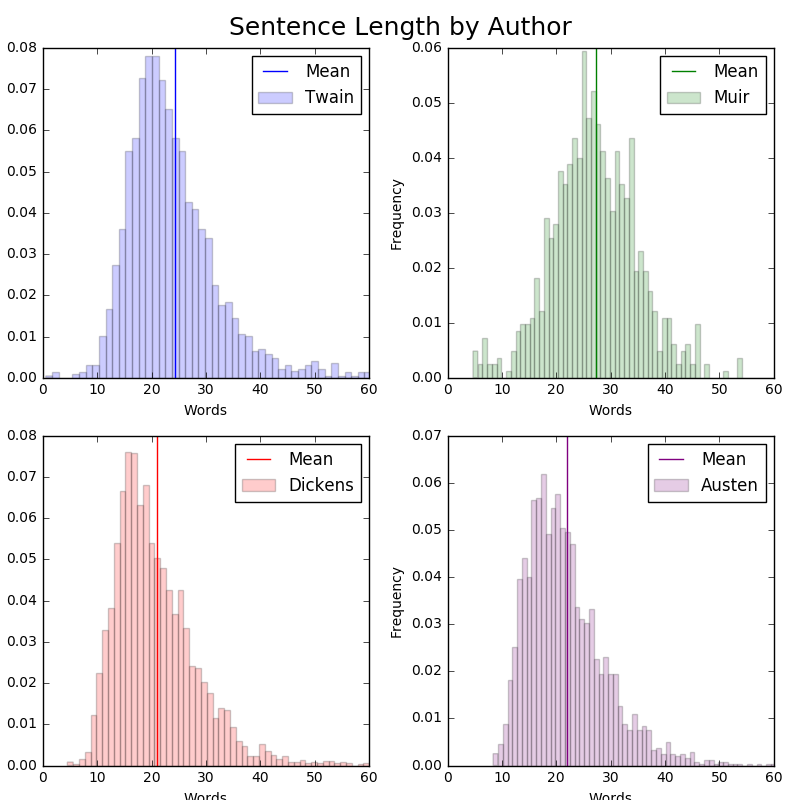
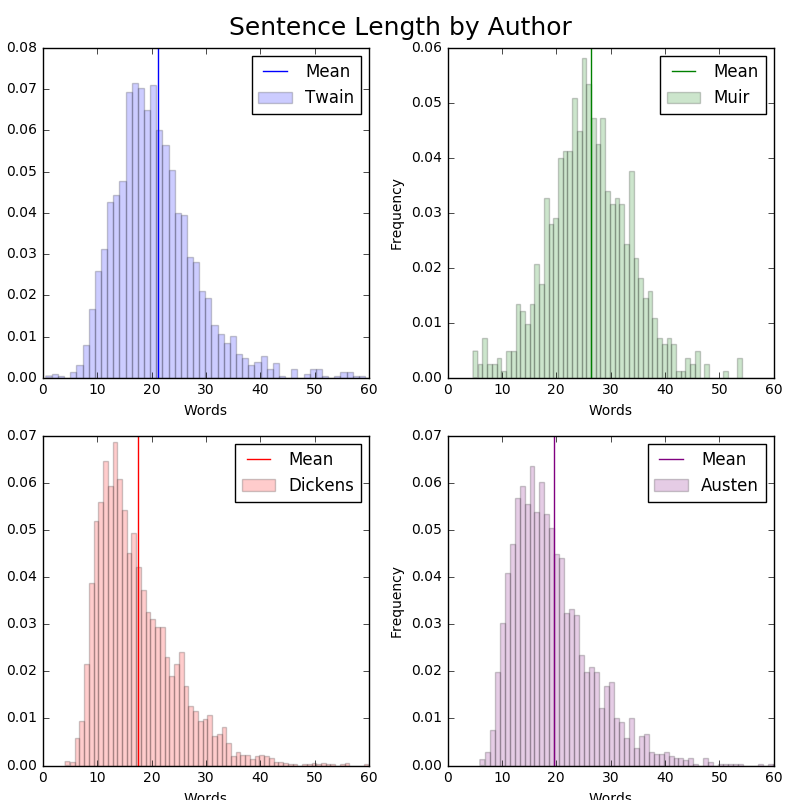
update histograms and fix readme captions

diff --git a/readme.md b/readme.md
@@ -19,10 +19,10 @@
 <br>
 
 <img src="images/word_len.png" width="800">
-#### Figure 5: All four authors average around 4.5 letters per word (after removal of stopwords) with John Muir coming in slightly above the others.
+#### Figure 5: All four authors average around 4.5 letters per word  with John Muir coming in slightly above the others.
 <br>
 <img src="images/sent_len.png" width="800">
-#### Figure 6: Charles Dickens, Mark Twain, and Jane Austen average between 20-25 words per sentence with John Muir averaging around 28 words per sentence. Interestingly, the distribution for John Muir is also more symmetrical. Stop words have been removed from all works.
+#### Figure 6: Charles Dickens, Mark Twain, and Jane Austen average between 20-25 words per sentence with John Muir averaging around 28 words per sentence. Interestingly, John Muir's distribution does not display the skewness of the other authors.
 <br>
 
 <img src="images/logos/spark.png" width="150">
